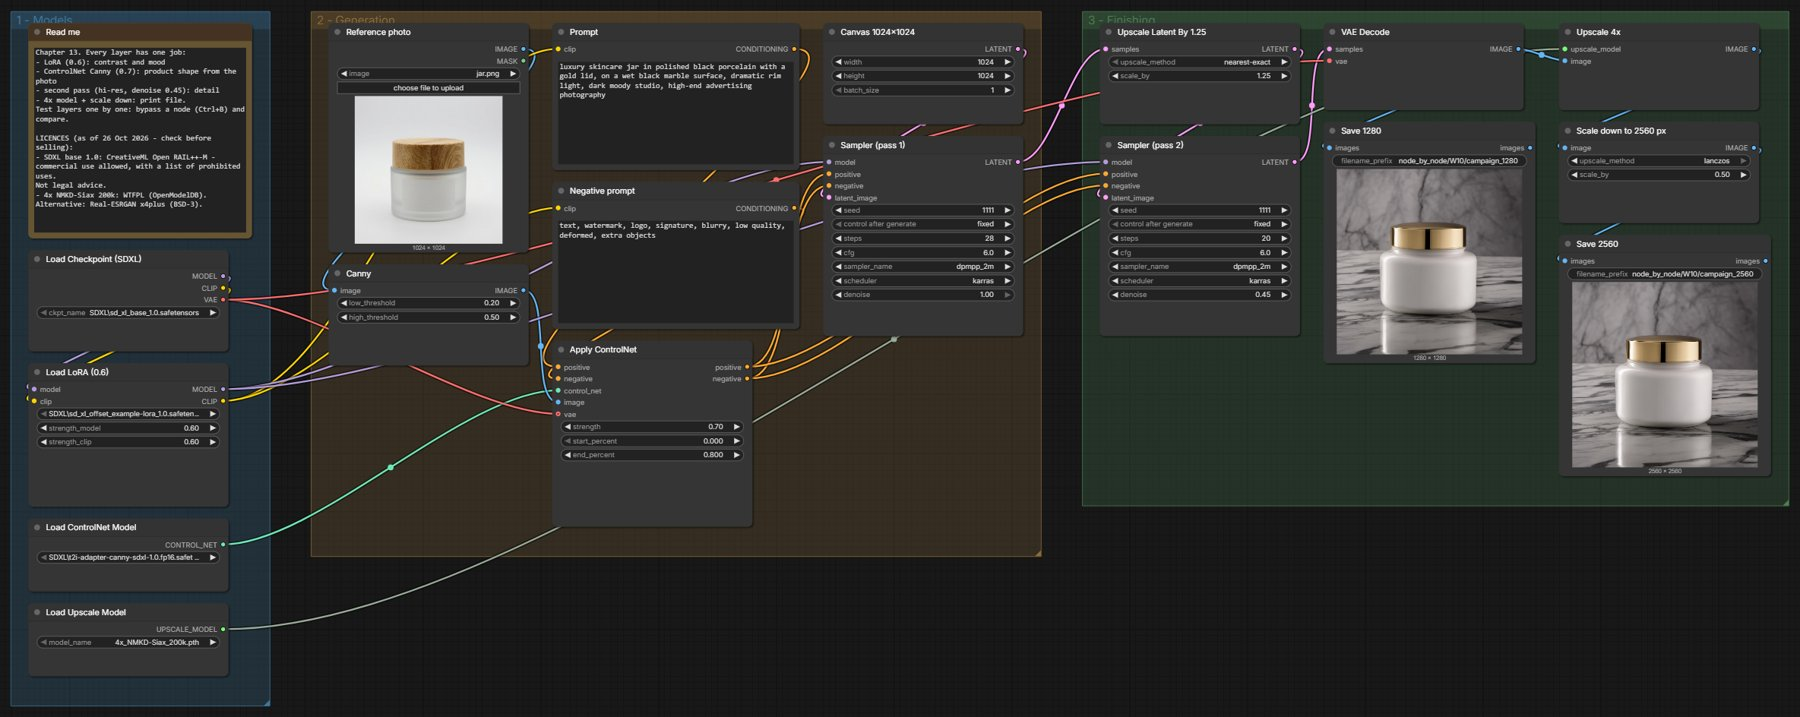
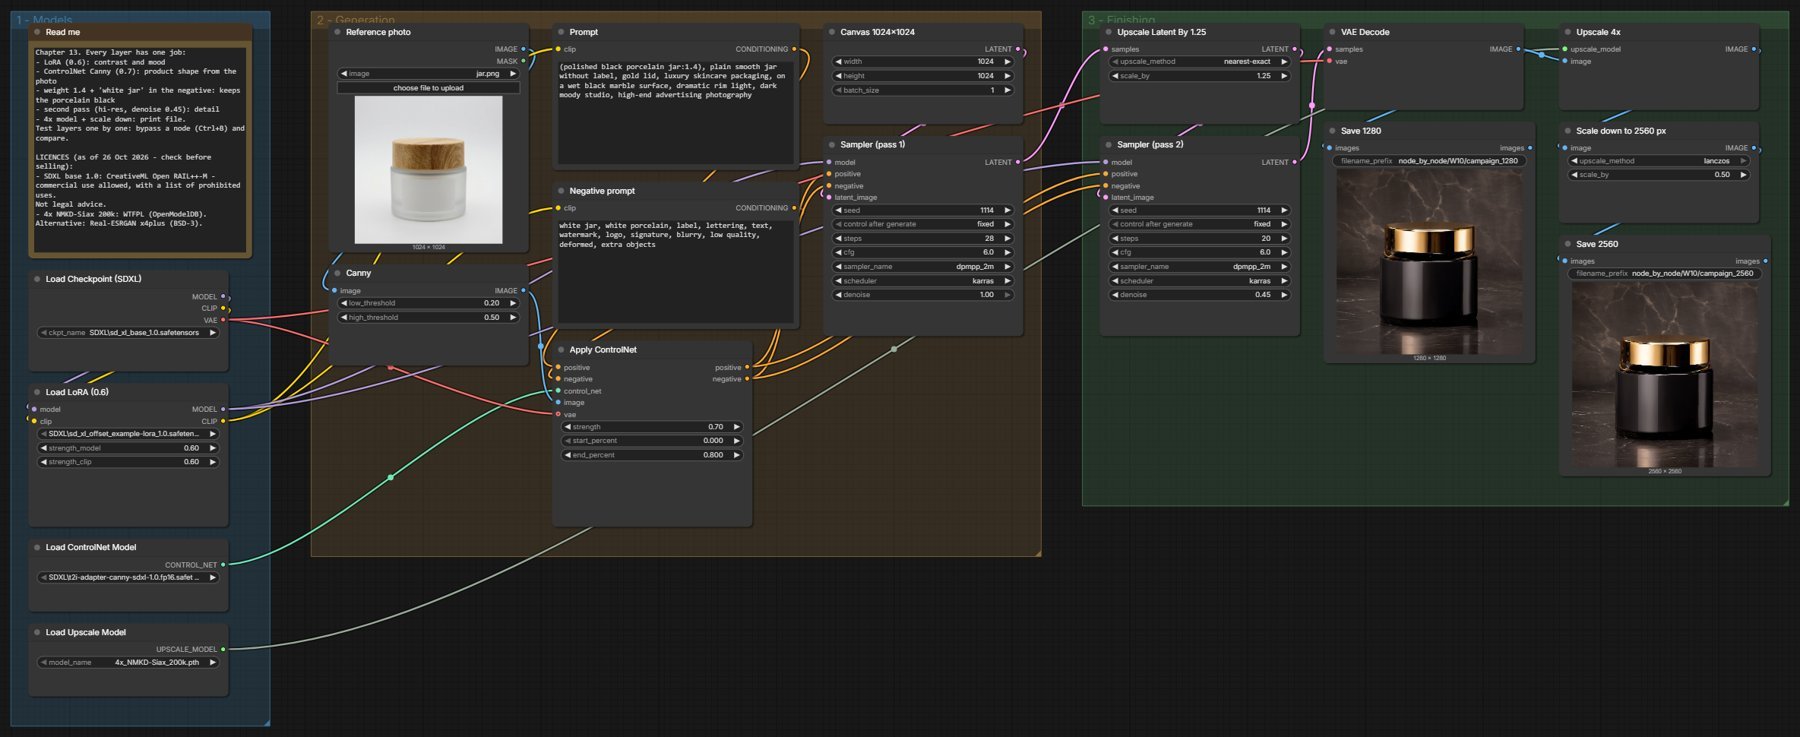
Node by Node: W10 prompt fix (black porcelain), clearer licences (inputs CC0), re-test

diff --git a/tools/node_by_node.py b/tools/node_by_node.py
@@ -239,6 +239,7 @@ def W10():
     g1, g2, g3 = "1 - Models", "2 - Generation", "3 - Finishing"
     wf.note("Chapter 13. Every layer has one job:\n"
             "- LoRA (0.6): contrast and mood\n- ControlNet Canny (0.7): product shape from the photo\n"
+            "- weight 1.4 + 'white jar' in the negative: keeps the porcelain black\n"
             "- second pass (hi-res, denoise 0.45): detail\n- 4x model + scale down: print file.\n"
             "Test layers one by one: bypass a node (Ctrl+B) and compare.\n\n" + LIC + "\n" + LIC_UP, g1)
     ck = base(wf, g1)
@@ -248,14 +249,15 @@ def W10():
     um = wf.add("UpscaleModelLoader", "Load Upscale Model", g1, 0, model_name=UPS)
     im = wf.add("LoadImage", "Reference photo", g2, 0, image="jar.png")
     cn = wf.add("Canny", "Canny", g2, 0, image=im[0], low_threshold=0.2, high_threshold=0.5)
-    p, n = prompts(wf, lo[1], "luxury skincare jar in polished black porcelain with a gold lid, on a wet black marble "
-                   "surface, dramatic rim light, dark moody studio, high-end advertising photography", g2, col=1)
+    p, n = prompts(wf, lo[1], "(polished black porcelain jar:1.4), plain smooth jar without label, gold lid, luxury skincare "
+                   "packaging, on a wet black marble surface, dramatic rim light, dark moody studio, high-end advertising photography",
+                   g2, col=1, neg="white jar, white porcelain, label, lettering, " + NEG)
     ap = wf.add("ControlNetApplyAdvanced", "Apply ControlNet", g2, 1, positive=p[0], negative=n[0], control_net=cl[0],
                 image=cn[0], strength=0.7, start_percent=0.0, end_percent=0.8, vae=ck[2])
     l = wf.add("EmptyLatentImage", "Canvas 1024x1024", g2, 2, width=1024, height=1024, batch_size=1)
-    k1 = sampler(wf, lo[0], ap[0], ap[1], l[0], g2, 2, seed=1111, title="Sampler (pass 1)")
+    k1 = sampler(wf, lo[0], ap[0], ap[1], l[0], g2, 2, seed=1114, title="Sampler (pass 1)")
     up = wf.add("LatentUpscaleBy", "Upscale Latent By 1.25", g3, 0, samples=k1[0], upscale_method="nearest-exact", scale_by=1.25)
-    k2 = sampler(wf, lo[0], ap[0], ap[1], up[0], g3, 0, seed=1111, steps=20, denoise=0.45, title="Sampler (pass 2)")
+    k2 = sampler(wf, lo[0], ap[0], ap[1], up[0], g3, 0, seed=1114, steps=20, denoise=0.45, title="Sampler (pass 2)")
     d = wf.add("VAEDecode", "VAE Decode", g3, 1, samples=k2[0], vae=ck[2])
     save(wf, d[0], "W10/campaign_1280", g3, 1, title="Save 1280")
     u = wf.add("ImageUpscaleWithModel", "Upscale 4x", g3, 2, upscale_model=um[0], image=d[0])

diff --git a/node-by-node/LICENSE.md b/node-by-node/LICENSE.md
@@ -1,8 +1,19 @@
 # Licences / Licencje
 
 - Workflow files (`workflows/`), `scripts/` and `materials/`: **MIT License**, (c) 2026 Matthew Flake – see `../LICENSE`.
-- Exercise images (`inputs/`): free to use for learning and testing the workflows from the book.
-- Sample results (`samples/`): **CC BY-NC 4.0** – see `samples/LICENSE.md`.
+- Exercise images (`inputs/`): **CC0 1.0** (public domain dedication) – use them for anything, including commercial work. See `inputs/LICENSE.md`.
+- Sample results (`samples/`): **CC BY-NC 4.0** – learning and non-commercial use only; see `samples/LICENSE.md`.
 - AI models are **not** included. Each model has its own licence – see `MODELS.md`.
 
-Pliki workflow, skrypty i materiały: licencja MIT. Obrazy w `inputs/`: do nauki i testów. Próbki w `samples/`: CC BY-NC 4.0. Modele AI nie są częścią paczki – obowiązują ich własne licencje (`MODELS.md`).
+Pliki workflow, skrypty i materiały: licencja MIT. Obrazy w `inputs/`: CC0 1.0 (wolno wszystko, także komercyjnie). Próbki w `samples/`: CC BY-NC 4.0. Modele AI nie są częścią paczki – obowiązują ich własne licencje (`MODELS.md`).
+
+## Summary / W skrócie
+
+| What | Licence | Commercial use? |
+|---|---|---|
+| `workflows/`, `scripts/`, `materials/` | MIT | yes |
+| `inputs/` (jar.png, lake.png, jar_lid_mask.png) | CC0 1.0 | yes |
+| `samples/` | CC BY-NC 4.0 | no |
+| AI models (not included) | their own licences, see `MODELS.md` | check each model |
+
+All images in this pack were generated by the author in ComfyUI with SDXL base 1.0 (CreativeML Open RAIL++-M), using the workflows in `workflows/`. They contain no third-party photos, logos or real people.

diff --git a/node-by-node/TESTED.md b/node-by-node/TESTED.md
@@ -19,7 +19,7 @@ Każdy workflow wczytano z `workflows/ui` do okna ComfyUI i uruchomiono przycisk
 | W07_hires_fix | OK | OK | 42 s | 1248×1824 |
 | W08_controlnet_canny | OK | OK | 19 s | 1024×1024 |
 | W09_lora_comparison | OK | OK | 32 s | 2448×832 strip |
-| W10_all_together | OK | OK | 47 s | 1280×1280 + 2560×2560 |
+| W10_all_together | OK | OK | 45 s | 1280×1280 + 2560×2560 (re-tested 28 Oct 2026 after the prompt fix) |
 | W11_series | OK | OK | 16 s | 832×1216 |
 | scripts/series.py + topics.csv (6 topics × 1) | – | OK | 88 s total | 6 × 832×1216 |
 

diff --git a/node-by-node/inputs/README.md b/node-by-node/inputs/README.md
@@ -9,4 +9,4 @@ Skopiuj te pliki do `ComfyUI/input` (albo wgraj je w węźle Load Image).
 | `jar_lid_mask.png` | 1024×1024 (white = change) | W04 |
 | `lake.png` | 1344×768 | W05 |
 
-Generated with ComfyUI by the author; free to use for learning and testing.
+Generated by the author in ComfyUI (SDXL base 1.0). Licence: **CC0 1.0** – use them for anything, including commercial work. / Licencja CC0 1.0 – wolno wszystko, także komercyjnie.

diff --git a/node-by-node/inputs/LICENSE.md b/node-by-node/inputs/LICENSE.md
@@ -1,0 +1,5 @@
+# CC0 1.0 Universal
+
+To the extent possible under law, Matthew Flake has waived all copyright and related or neighboring rights to the exercise images in this folder (`jar.png`, `lake.png`, `jar_lid_mask.png`).
+
+Full legal text: https://creativecommons.org/publicdomain/zero/1.0/legalcode
